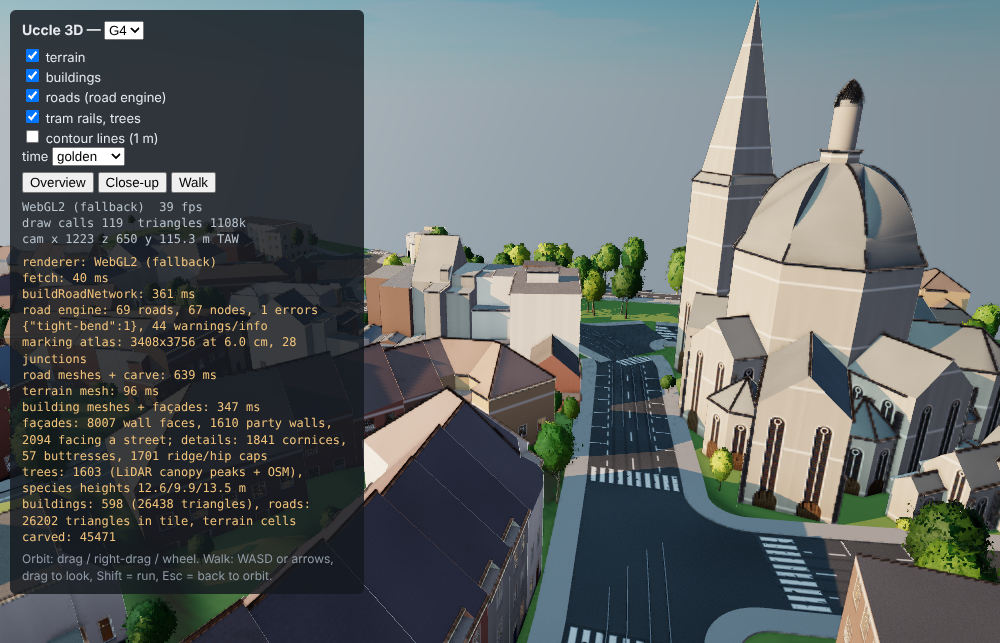
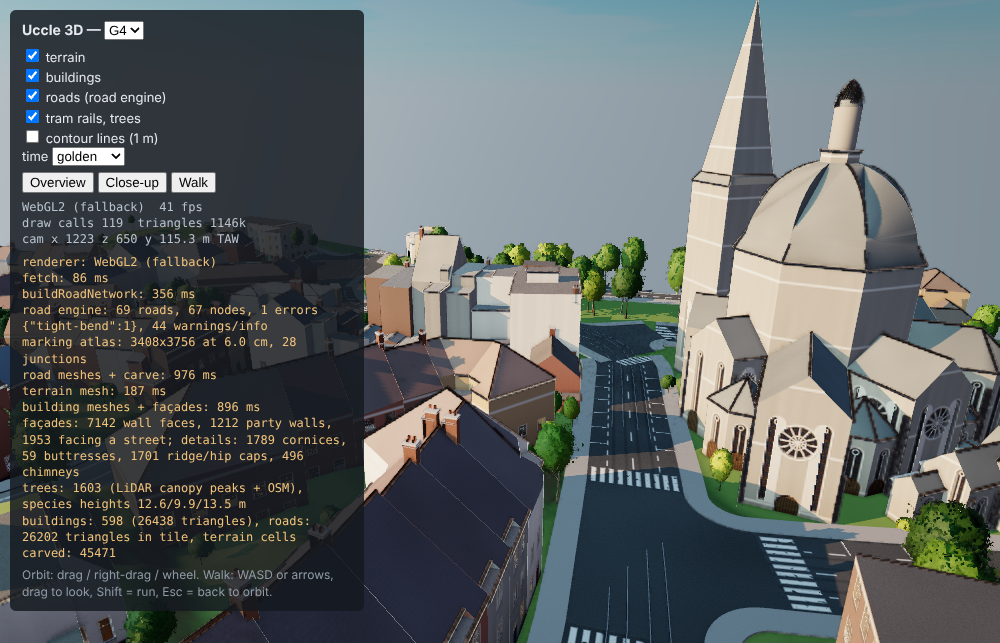
Chimney stacks on party walls; Blender asset plan (docs/BLENDER.md)
Claude-Session: https://claude.ai/code/session_017uqA5oYspyvsgJQSxLERkX

diff --git a/viewer/facades.js b/viewer/facades.js
@@ -222,7 +222,7 @@ export function analyseBuildings(doc, buf, roads) {
   const W = { position: [], normal: [], aWall: [], aBld: [], aFN: [] };
   const D = { position: [], normal: [], color: [] };                             // detail geometry
   const R = { position: [], normal: [], aRoof: [], aRoofCol: [] };
-  const stats = { faces: 0, party: 0, street: 0, cornices: 0, buttresses: 0, ridges: 0 };
+  const stats = { faces: 0, party: 0, street: 0, cornices: 0, buttresses: 0, ridges: 0, chimneys: 0 };
   doc.buildings.forEach((b, bi) => {
     const base = b.base, eaves = (b.eaves ?? b.top) - base;
     const key = String(b.attrs?.BU_ID ?? b.id);
@@ -330,6 +330,29 @@ export function analyseBuildings(doc, buf, roads) {
           box(D, A, B, h2, h2 - h1, 0.32, f.nx, f.nz, [0.52, 0.49, 0.43]);              // upper stage, set back
           box(D, A, B, h1 + 0.12, 0.12, 0.62, f.nx, f.nz, [0.44, 0.42, 0.38]);           // weathering cap
           stats.buttresses++;
+        }
+      }
+      // chimney stacks: Brussels terraces put them on the party walls, at the highest point of the gable
+      if (!landmark && partyH >= 999 && faceH > 5 && width > 3 && hash01(key + "c" + Math.round(cx) + Math.round(cz)) < 0.7) {
+        let hq = null;
+        for (const { p } of f.tris) for (const q of p) if (!hq || q[1] > hq[1]) hq = q;
+        if (hq && hq[1] - base > eaves + 0.8) {                                     // only on a real gable (pitched roof)
+          const uq = hq[0] * tx + hq[2] * tz;
+          const um = Math.min(Math.max(uq, u0 + 0.8), u1 - 0.8) - uq;              // keep the stack on the wall
+          const cxq = hq[0] + tx * um, czq = hq[2] + tz * um;
+          const hw = 0.45, A = [cxq - tx * hw, 0, czq - tz * hw], B = [cxq + tx * hw, 0, czq + tz * hw];
+          const top = hq[1] + 1.1, brick = style <= 2 ? [0.2, 0.085, 0.055] : [0.24, 0.11, 0.07];
+          // straddles the party wall (half on each side) so both neighbours agree
+          const A2 = [A[0] + f.nx * 0.3, 0, A[2] + f.nz * 0.3], B2 = [B[0] + f.nx * 0.3, 0, B[2] + f.nz * 0.3];
+          box(D, A2, B2, top, 2.4, 0.6, -f.nx, -f.nz, brick);
+          const cA = [A2[0] - tx * 0.06 + f.nx * 0.06, 0, A2[2] - tz * 0.06 + f.nz * 0.06];
+          const cB = [B2[0] + tx * 0.06 + f.nx * 0.06, 0, B2[2] + tz * 0.06 + f.nz * 0.06];
+          box(D, cA, cB, top + 0.1, 0.14, 0.72, -f.nx, -f.nz, [0.42, 0.41, 0.39]);   // stone cap
+          for (const k of [-0.2, 0.2]) {                                            // two clay pots
+            const px = cxq + tx * k - f.nx * 0.0, pz = czq + tz * k - f.nz * 0.0;
+            box(D, [px - tx * 0.09, 0, pz - tz * 0.09], [px + tx * 0.09, 0, pz + tz * 0.09], top + 0.42, 0.32, 0.18, f.nx, f.nz, [0.33, 0.13, 0.07]);
+          }
+          stats.chimneys++;
         }
       }
       for (const { p, n: nn, src } of f.tris) for (const q of p) {

diff --git a/viewer/main.js b/viewer/main.js
@@ -394,7 +394,7 @@ async function main() {
   const contourOn = uniform(0);
   layers.terrain.add(await timed("terrain mesh", () => terrainMesh(hm, contourOn)));
   const B = await timed("building meshes + façades", () => facadeMeshes(bDoc, bBuf, roads));
-  log(`façades: ${B.stats.faces} wall faces, ${B.stats.party} party walls, ${B.stats.street} facing a street; details: ${B.stats.cornices} cornices, ${B.stats.buttresses} buttresses, ${B.stats.ridges} ridge/hip caps`);
+  log(`façades: ${B.stats.faces} wall faces, ${B.stats.party} party walls, ${B.stats.street} facing a street; details: ${B.stats.cornices} cornices, ${B.stats.buttresses} buttresses, ${B.stats.ridges} ridge/hip caps, ${B.stats.chimneys} chimneys`);
   layers.buildings.add(...B.meshes);
   layers.features.add(featureObjects(feats, hm, bounds));
   log(`buildings: ${bDoc.count} (${B.triangles} triangles), roads: ${R.triangles} triangles in tile, terrain cells carved: ${R.carvedCells}`);

diff --git a/docs/BLENDER.md b/docs/BLENDER.md
@@ -1,0 +1,40 @@
+# Plan: Blender-made assets (later)
+
+Goal: AAA look at street level **and** 60 fps in the browser (WebGPU).
+
+## What costs performance
+
+| Cost | Budget (mid-range GPU, WebGPU) | What blows it |
+|---|---|---|
+| Draw calls | under ~1,000 per frame | one unique mesh per house (20k houses = 20k calls) |
+| Triangles on screen | 2–5 M | mostly fine; unique high-poly everywhere is not |
+| GPU memory | 1–2 GB | unique textures per building |
+| Download | a few MB per 500 m tile | baking every house to its own .glb |
+| Overdraw / shading | | alpha leaves, heavy shaders on far objects |
+
+## Approach
+
+1. **Modular kit made in Blender** (`bpy` scripts generate the pieces and their LODs):
+   window frames with real depth (several Uccle types), doors, cornices, balconies, dormers,
+   chimneys, shopfronts, gutters, street lamps, benches, bus/tram stops, signals.
+   30–60 pieces, one shared trim-sheet texture set.
+2. **Placement stays procedural** in the viewer, from the real data (UrbIS walls, storeys, party
+   walls, street faces, OSM points), drawn with `InstancedMesh` / `BatchedMesh`: one draw
+   call per piece type, however many houses. This is what `viewer/facades.js` already lays
+   out in its shader (bays, storeys, doors), so the kit replaces the shader windows near the camera.
+3. **Hero landmarks hand-modelled**: Saint-Job church etc., 100–300k triangles each from
+   photos, replacing the UrbIS solid (matched by `attrs._landmark.osm`).
+4. **Levels of detail**: kit geometry under ~150 m, shader façades (current) to ~600 m,
+   plain blocks + orthophoto beyond. LODs from `gltf-transform simplify` or Blender decimate.
+5. **Formats**: glTF `.glb` with meshopt (or Draco) compression, KTX2 (Basis) textures,
+   loaded once and shared by every tile.
+
+## Suggested layout
+
+```
+assets/blender/kit.blend        # source
+assets/blender/build_kit.py     # bpy script: generates pieces + LODs, exports
+viewer/assets/kit.glb           # export (pieces named win_A_lod0, ...)
+viewer/kit.js                   # loads kit.glb, places instances from analyseBuildings()
+```
+Run headless: `blender -b assets/blender/kit.blend -P assets/blender/build_kit.py`.

diff --git a/HANDOFF.md b/HANDOFF.md
@@ -42,7 +42,7 @@ Pipeline (raw data must be fetched first, see README): `python pipeline/run_tile
 2. **Church**: done: deep (parallax) openings, tracery, rose window, belfry louvres,
    buttresses, ribs. Rose window on the main front. Left: compare materials with a photo of
    Saint-Job, oculi on the dome drum, lantern detail.
-3. **Houses**: chimneys, roof eaves overhang, shopfronts from OSM `shop=*`, gable attic
+3. **Houses**: (chimneys done) roof eaves overhang, shopfronts from OSM `shop=*`, gable attic
    windows, parallax window reveals.
 4. **Night and props**: street lamps (pooled lights), benches, bus/tram stops, signals,
    tram overhead wires (all from OSM points/lines).
@@ -52,6 +52,10 @@ Pipeline (raw data must be fetched first, see README): `python pipeline/run_tile
    manholes; the marking atlas is ~24 MB per tile, so shrink it before streaming.
 7. **Multi-tile streaming + LOD**: load neighbouring tiles around the player, tree LOD /
    impostors, far tiles with the draped orthophoto.
+
+## Blender assets
+
+Plan for better houses/props made in Blender without losing performance: `docs/BLENDER.md`.
 
 ## Tips for the next session
 

diff --git a/docs/PLAN.md b/docs/PLAN.md
@@ -373,6 +373,9 @@ modular kits**, and real data only decides **which material goes where**.
    Coplanar wall faces split by the grouping's rounding are now merged (all buildings;
    G4 8,007 → 7,142 faces), so the Saint-Job front is one face: one portal, the rose
    window high in the gable, lancets either side.
+   Chimney stacks (brick, stone cap, two clay pots) straddle party walls at the gable's
+   highest point, about 70 % of them (G4: 496). Plan for Blender-made kit pieces and hero
+   models without losing performance: `docs/BLENDER.md`.
    **Next for the church:** check materials against a photo; the drum and dome could
    use their own windows (oculi) and lantern detail.
 
